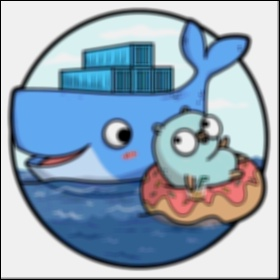
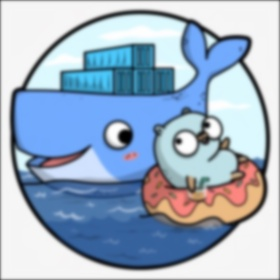
[MODIF] Modifcation of the blur. It is now a gaussian blur. Add the exemple in the readme.

Changed region(s): [[0.0, 0.0, 1.0, 1.0], [0.2286, 0.7714, 0.2857, 0.8], [0.0857, 0.7143, 0.1143, 0.7429]]

diff --git a/effects/effects.go b/effects/effects.go
@@ -149,30 +149,29 @@ func SobalEdge(img image.Image) *image.Gray {
 	return dst
 }
 
-func Blur(img image.Image, radius int) *image.RGBA {
+func GaussianBlur(img image.Image, radius int) *image.RGBA {
 	src := clone.CloneAsRGBA(img)
 	bounds := src.Bounds()
 	w, h := bounds.Dx(), bounds.Dy()
 
 	dst := image.NewRGBA(bounds)
 
-	b := util.BlurMatrix(radius)
+	blur := util.GaussianBlurMatrix(radius)
 
 	for x := 0; x < w; x++ {
 		for y := 0; y < h; y++ {
-			v := color.RGBA{0, 0, 0, 0}
+			var r, g, b, a float64
 
-			for i := 0; i < radius; i++ {
-				for j := 0; j < radius; j++ {
-					pix := src.At(x-1+i, y-1+j).(color.RGBA)
-					v.R += uint8((float64(pix.R) * b[i][j]))
-					v.G += uint8((float64(pix.G) * b[i][j]))
-					v.B += uint8((float64(pix.B) * b[i][j]))
-					v.A += uint8((float64(pix.A) * b[i][j]))
+			for i := 0; i < 2*radius+1; i++ {
+				for j := 0; j < 2*radius+1; j++ {
+					pix := src.At(x-radius+i, y-radius+j).(color.RGBA)
+					r += float64(pix.R) * blur[i][j]
+					g += float64(pix.G) * blur[i][j]
+					b += float64(pix.B) * blur[i][j]
+					a += float64(pix.A) * blur[i][j]
 				}
 			}
-
-			dst.Set(x, y, v)
+			dst.Set(x, y, color.RGBA{R: uint8(r), G: uint8(g), B: uint8(b), A: uint8(a)})
 		}
 	}
 

diff --git a/util/util.go b/util/util.go
@@ -1,9 +1,9 @@
 package util
 
 import (
-	"errors"
 	"image"
 	"image/color"
+	"math"
 )
 
 func Rank(color color.RGBA) float64 {
@@ -98,33 +98,43 @@ func Max(x, y int) int {
 	return x
 }
 
-func BlurMatrix(n int) [][]float64 {
-	if n%2 == 0 {
-		panic(errors.New("blur matrix constructor is not an odd number"))
-	}
-
+func GaussianBlurMatrix(n int) [][]float64 {
 	var (
 		b [][]float64
-		t float64
-		m int
+		s float64
 	)
 
-	m = (n / 2)
-	t = 1.0 / float64(n*n-1)
+	for i := -n; i < n+1; i++ {
+		var r []float64
 
-	for i := 0; i < n; i++ {
-		r := make([]float64, n)
-
-		for j := 0; j < n; j++ {
-			if i == m && j == m {
-				r[j] = 0
-				continue
-			}
-			r[j] = t
+		for j := -n; j < n+1; j++ {
+			t := GaussianDistribution(i, j, 1.5)
+			r = append(r, t)
+			s += t
 		}
 
 		b = append(b, r)
 	}
 
+	for i := 0; i < n*2+1; i++ {
+		for j := 0; j < n*2+1; j++ {
+			b[i][j] /= s
+		}
+	}
+
 	return b
+}
+
+func GaussianDistribution(x, y int, s float64) float64 {
+	var (
+		e  float64
+		f  float64
+		s2 float64
+	)
+
+	s2 = s * s
+	f = 1 / (2 * math.Pi * s2)
+	e = float64(x*x+y*y) / (2 * s2)
+
+	return f * math.Exp(-e)
 }

diff --git a/main.go b/main.go
@@ -13,7 +13,7 @@ func main() {
 
 	img, _, _ := image.Decode(f)
 
-	dst := effects.Blur(img, 7)
+	dst := effects.GaussianBlur(img, 10)
 
 	nf, _ := os.Create("Blur.jpeg")
 	jpeg.Encode(nf, dst, &jpeg.Options{Quality: 95})

diff --git a/README.md b/README.md
@@ -13,6 +13,7 @@ This go package has been created to do image processing with golang. I'm current
     - [Threshold](#threshold)
     - [Invert](#invert)
     - [Sobel Edge detection](#sobal-edge-detection)
+    - [Gaussian Blur](#gaussian-blur)
 2. [Licence](#licence)
 
 ## Effects
@@ -83,12 +84,12 @@ newImg := effects.SobalEdge(img)
 
 ![exemple](./assets/images/SobalEdge.jpeg)
 
-### Blur
+### Gaussian Blur
 
 You can blur an image. You can choose the blur radius. The bigger the blur radius, the more blur the picture will be.
 
 ```golang
-newImg := effects.Blur(img, 5)
+newImg := effects.GaussianBlur(img, 10)
 ```
 
 ![exemple](./assets/images/Blur.jpeg)
